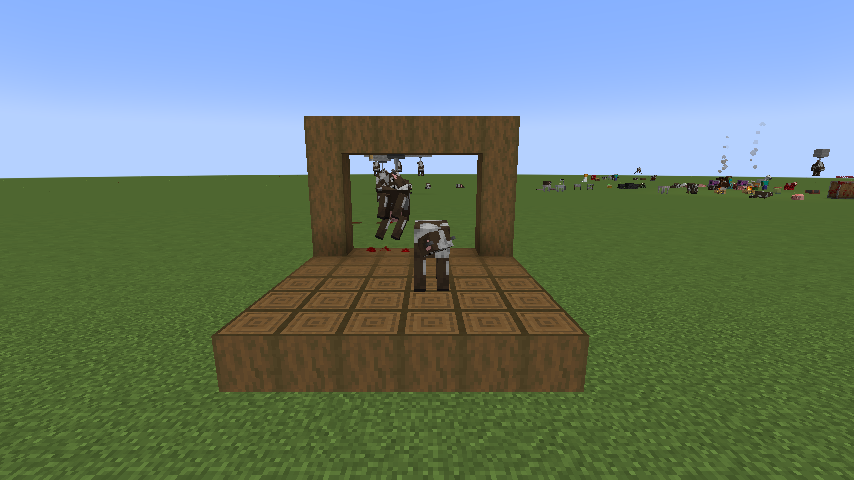
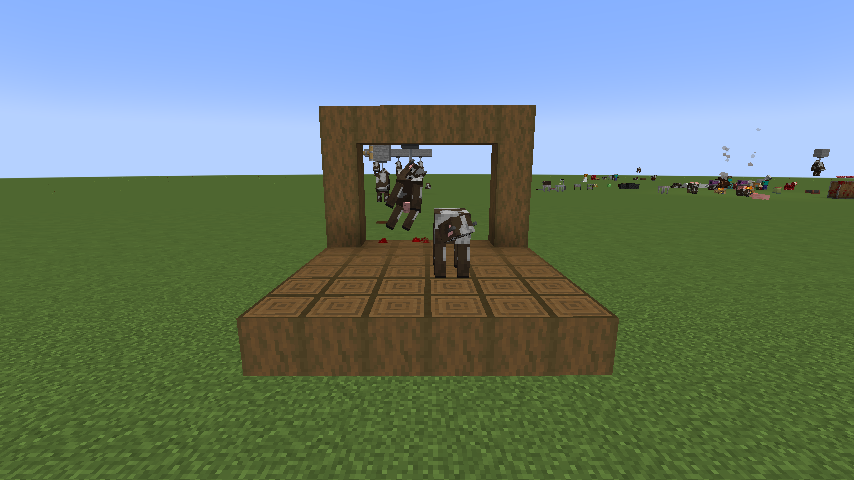
Showcase: drop the cow beside the lying one (dropped at the deck's edge it fell off); pictures of the flying ship
Left: moved-hook rule run with it taken out, datagen, three full runs.

Claude-Session: https://claude.ai/code/session_01VFhLqCRBB9EnozqpaTh1tP

Changed region(s): [[0.0, 0.2188, 1.0, 1.0], [0.7916, 0.3125, 0.9438, 0.4375], [0.8829, 0.25, 0.9133, 0.2812]]

diff --git a/src/main/java/com/avicagan/bloodandbones/client/DevShowcase.java b/src/main/java/com/avicagan/bloodandbones/client/DevShowcase.java
@@ -1157,7 +1157,7 @@ public final class DevShowcase {
                 if (rideShip != null && !rideShip.isRemoved()) {
                     com.avicagan.bloodandbones.gametest.ContraptionTests.cruise(rideShip, new org.joml.Vector3d(0.6, 0.0, 0.0));
                     org.joml.Vector3d over = rideShip.logicalPose().transformPosition(rideDrop, new org.joml.Vector3d()).add(0.0, 1.5, 0.0);
-                    rideDropped = carcass(server.overworld(), EntityType.COW, BlockPos.containing(over.x, over.y, over.z), false, false, 90.0F);
+                    rideDropped = carcass(server.overworld(), EntityType.COW, BlockPos.containing(over.x, over.y, over.z), false, false, 0.0F);
                 }
             });
         } else if (rideStep == 5 && age < 620) {
@@ -1247,8 +1247,8 @@ public final class DevShowcase {
             return;
         }
         CarcassAssembler.bindColliders(level, rideShip);
-        // the deck's front right, where the cow dropped as it flies lands
-        rideDrop = rideShip.logicalPose().transformPositionInverse(new org.joml.Vector3d(y.getX() + 3.5, y.getY() + 1.0, y.getZ() + z0 + 5.0), new org.joml.Vector3d());
+        // the free part of the deck, beside the lying cow, where the cow dropped as it flies lands
+        rideDrop = rideShip.logicalPose().transformPositionInverse(new org.joml.Vector3d(y.getX() + 3.5, y.getY() + 1.0, y.getZ() + z0 + 3.5), new org.joml.Vector3d());
         carcass(level, EntityType.COW, y.offset(5, 2, z0 + 3), false);
         CarcassSavedData.Carcass onShip = carcass(level, EntityType.COW, y.offset(4, 2, z0 + 1), false);
         ShackleHookBlockEntity shackle = null;

diff --git a/docs/ARCHITECTURE-PROPOSAL.md b/docs/ARCHITECTURE-PROPOSAL.md
@@ -4648,9 +4648,9 @@ into the ship's plot first, and no chain longer than a hook hoists from is drawn
 a Mechanical Piston half way through pushing a stone block with a Shackle Hook under it, the cow drawn hanging from the
 hook while it rides in the hook's data (the log says one contraption and no cow in the world at that moment).
 `contraption_hook_set_down.png`: two blocks on, set down, the cow hanging there again as a body, as it hung before.
-`ship_moving_carcasses.png`: a spruce ship, a deck with a gallows, lifted a quarter block off the ground and flown east
+`ship_moving_carcasses.png`: a spruce ship, a deck with a gallows, lifted just clear of the ground and flown east
 with a cow hung from the gallows' hook and a cow resting on the deck, the camera following it. `ship_dropped_cow_rests.png`:
-flying on, more slowly, with a third cow dropped on the front of its deck as it went, seen once it has come to rest
+flying on, more slowly, with a third cow dropped on its deck beside the lying one as it went, seen once it has come to rest
 there (the log says resting and pinned to the ship, the ship still going). In bloodless mode (`bloodless_contraption_hook_moving.png`) the
 cow on the moving hook is drawn as the plated wreck every carcass is there, and no blood lies under it.
 
